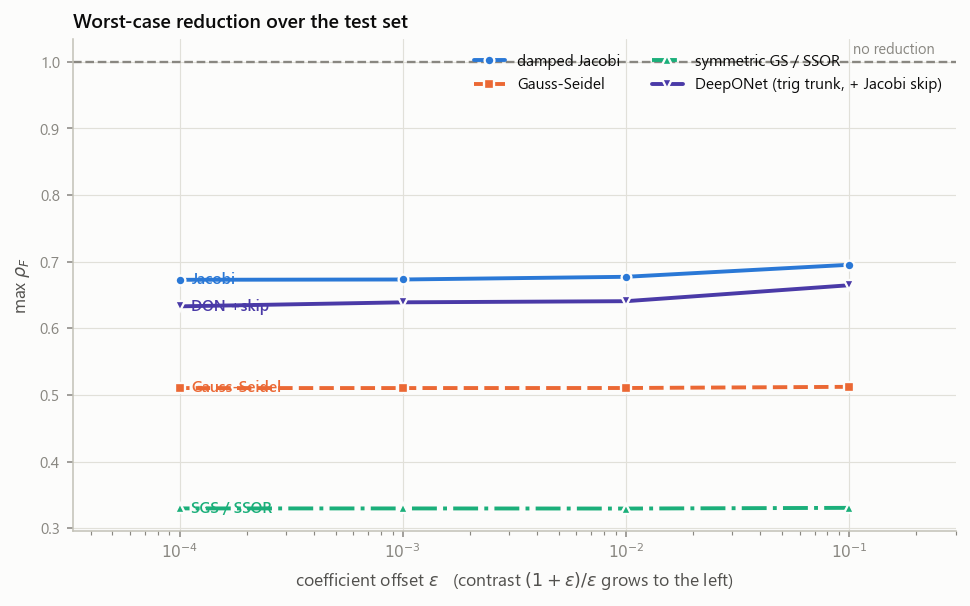
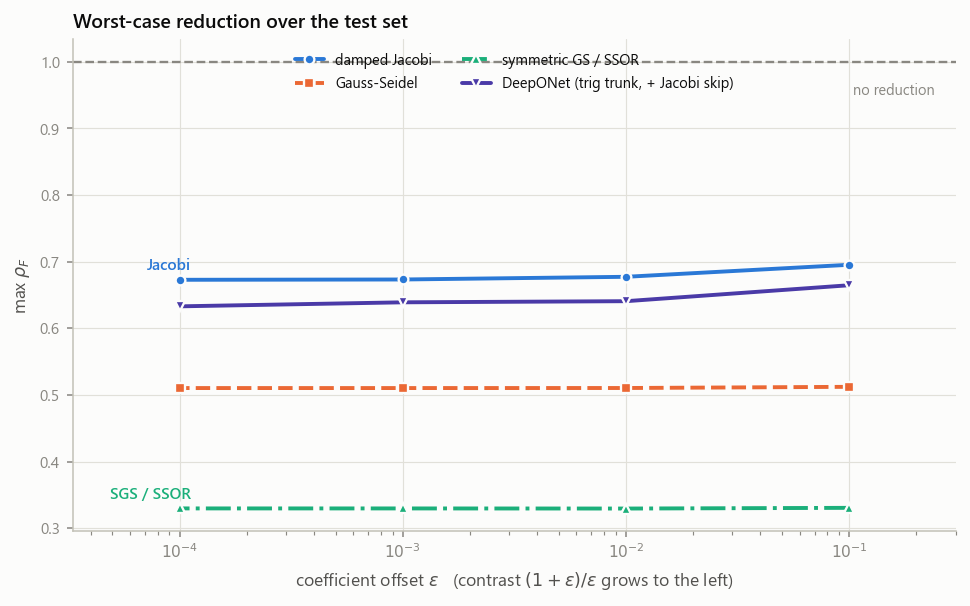
Fix the torus rendering and the sweep-figure labels
Three defects found by looking at the rendered output rather than trusting it:

1. The 3-D torus was drawn with zoom=1.75, which clips the surface against the
   axes box so the round silhouette became a rounded SQUARE -- it reads as a
   geometry error, not a rendering one. Reduced to 1.15, measured against 1.75,
   1.35 and 1.0.

2. The (xi, eta) DoF lattice runs from -pi + d to +pi, so a quad mesh drawn
   straight from it has a one-cell gap where the parameter domain wraps: a white
   notch on an otherwise closed torus. The surface is now wrapped by one cell in
   both directions before plotting. The imshow of the same field is deliberately
   NOT wrapped, which would duplicate a row and a column.

3. On the epsilon-sweep figures the legend collided with the "no reduction"
   annotation, and fixed per-method label offsets separated the curves on mean
   rho_F but collided on rho_TG, where three of four curves sit within 0.05. The
   reference annotation moved to the left end and the direct labels are now
   placed on the two extreme curves only -- collision-free by construction, and
   the selective labelling the design asks for; the legend and the CSV tables
   carry identity for the rest.

Figures regenerated via hcsm.collect and hcsm.refigure. The per-run figures are
unaffected by (3) and were already regenerated for (1) and (2).

diff --git a/hcsm/plots.py b/hcsm/plots.py
@@ -154,11 +154,21 @@ def plot_eps_curves(
 
     fig, ax = plt.subplots(figsize=(7.0, 4.4))
 
+    # Draw the curves first and collect their end values, so the direct labels
+    # can be placed afterwards on the two extreme curves only. On these figures
+    # three of the four curves can sit within 0.05 of each other while spanning
+    # less than a line of text, so a fixed per-method offset cannot separate them
+    # for every statistic -- it separated them on mean rho_F and collided on
+    # rho_TG. The extremes are always separated, so labelling those two is both
+    # collision-free and the "selective" labelling the design calls for; the
+    # legend and the CSV tables carry identity for the rest.
+    series: Dict[str, Tuple[np.ndarray, np.ndarray]] = {}
     if reference_line is not None:
         ax.axhline(reference_line, color=style.INK_MUTED, lw=1.2, ls="--", zorder=1)
+        # Annotated at the LEFT end. At the right end it collided with the legend.
         ax.annotate(reference_label or "", xy=(eps_values[0], reference_line),
-                    xytext=(2, 4), textcoords="offset points",
-                    fontsize=7.5, color=style.INK_MUTED)
+                    xytext=(2, -11), textcoords="offset points",
+                    fontsize=7.5, color=style.INK_MUTED, va="top")
 
     for mi, meth in enumerate(methods):
         ys = []
@@ -171,9 +181,14 @@ def plot_eps_curves(
                 ls=st.get("ls", "-"), marker=st.get("marker", "o"),
                 markeredgecolor=style.SURFACE, markeredgewidth=1.2, zorder=3,
                 label=style.METHOD_LABEL.get(meth, meth))
-        style.label_line(ax, eps_values[-1], ys[-1],
-                         style.METHOD_SHORT.get(meth, meth),
-                         style.METHOD_COLOR.get(meth, style.CATEGORICAL[mi % 4]))
+        series[meth] = (eps_values, ys)
+
+    if series:
+        ends = {m: float(v[1][-1]) for m, v in series.items()}
+        for meth in (max(ends, key=ends.get), min(ends, key=ends.get)):
+            xs, ys = series[meth]
+            style.label_line(ax, xs[-1], ys[-1], style.METHOD_SHORT.get(meth, meth),
+                             style.METHOD_COLOR.get(meth), dy=7.0, ha="right")
 
     ax.set_xscale("log")
     ax.set_xticks(eps_values)
@@ -184,7 +199,11 @@ def plot_eps_curves(
     if ylim is not None:
         ax.set_ylim(*ylim)
     style.style_axes(ax)
-    ax.legend(loc="upper right", ncols=2)
+    # Upper centre: the curves live in a narrow band at the bottom of the axes
+    # (rho_F is between 0.17 and 0.42 while the axis runs to the "no reduction"
+    # line at 1.0), so the empty middle is the one place a legend cannot collide
+    # with a curve, a direct label or the reference annotation.
+    ax.legend(loc="upper center", ncols=2, fontsize=7.5)
     ax.margins(x=0.16)
     fig.tight_layout()
     _save(fig, path)

diff --git a/hcsm/style.py b/hcsm/style.py
@@ -185,12 +185,13 @@ def style_axes(ax) -> None:
     ax.tick_params(length=3, width=0.8)
 
 
-def label_line(ax, x, y, text, color, dx=6, dy=0, fontsize=8, va="center"):
+def label_line(ax, x, y, text, color, dx=6, dy=0, fontsize=8, va="center",
+               ha="left"):
     """Direct label at the end of a curve, in the curve's own colour.
 
     Text wears the series colour only here, where it *is* the mark's identity
     label; every other number on the figure stays in ink tokens.
     """
     ax.annotate(text, xy=(x, y), xytext=(dx, dy), textcoords="offset points",
-                color=color, fontsize=fontsize, va=va, ha="left",
+                color=color, fontsize=fontsize, va=va, ha=ha,
                 fontweight="semibold")
